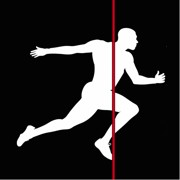
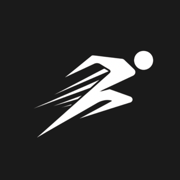
Update website images and components
- Replace old screenshots with new app images
- Update Hero, HowItWorks, and QuickSetups components
- Update favicons and app icons
- Fix SMS send-test route

Changed region(s): [[0.0, 0.0, 1.0, 1.0]]

diff --git a/src/components/HowItWorks.tsx b/src/components/HowItWorks.tsx
@@ -3,68 +3,82 @@ import Image from "next/image";
 export default function HowItWorks() {
   const steps = [
     {
-      number: "01",
-      title: "Position your iPhone",
-      description: "Place your phone at the finish line. No calibration needed—the app detects crossings automatically and uses linear interpolation to achieve millisecond accuracy.",
-      image: "/screenshot-setup.png",
+      number: "1",
+      title: "Connect phones",
+      description:
+        "Pair your iPhones together. They sync automatically over Wi-Fi.",
+      image: "/connect.png",
     },
     {
-      number: "02",
-      title: "Start the session",
-      description: "Choose your start method—countdown beeps, AI voice commands, touch release, or flying start. Multiple phones sync automatically for split timing.",
-      image: "/screenshot-templates.png",
+      number: "2",
+      title: "Start your session",
+      description:
+        "Choose your start method—countdown, voice commands, or flying start.",
+      image: "/tracksetup.png",
     },
     {
-      number: "03",
-      title: "Cross the line",
-      description: "Run your sprint. Get instant results with photo finish thumbnails to verify each crossing.",
-      image: "/screenshot-timing.png",
+      number: "3",
+      title: "Position your phone",
+      description:
+        "Place your phone at the finish line. No calibration needed.",
+      image: "/setup.png",
+    },
+    {
+      number: "4",
+      title: "Get your time",
+      description:
+        "Run your sprint and get instant results with millisecond accuracy.",
+      image: "/countdownstart.png",
     },
   ];
 
   return (
     <section id="how-it-works" className="section-padding px-6 bg-sky-wash">
       <div className="max-w-6xl mx-auto">
-        <div className="text-center mb-20">
-          <h2 className="text-section mb-4">
-            How it works
-          </h2>
+        <div className="text-center mb-16">
+          <h2 className="text-section mb-4">How it works</h2>
           <p className="text-body max-w-2xl mx-auto">
             Get started in under a minute
           </p>
         </div>
 
-        <div className="space-y-32">
+        <div className="grid grid-cols-2 md:grid-cols-4 gap-8">
           {steps.map((step, index) => (
-            <div
-              key={index}
-              className={`grid lg:grid-cols-2 gap-16 items-center ${
-                index % 2 === 1 ? "lg:flex-row-reverse" : ""
-              }`}
-            >
-              {/* Content */}
-              <div className={index % 2 === 1 ? "lg:order-2" : ""}>
-                <div className="flex items-center gap-4 mb-4">
-                  <span className="text-7xl font-bold" style={{ color: 'var(--border-light)' }}>{step.number}</span>
-                </div>
-                <h3 className="text-3xl font-bold mb-4" style={{ color: 'var(--text-primary)' }}>{step.title}</h3>
-                <p className="text-lg" style={{ color: 'var(--text-muted)' }}>{step.description}</p>
+            <div key={index} className="flex flex-col items-center text-center">
+              {/* Phone screenshot with built-in frame */}
+              <div className="w-[180px] mb-8">
+                <Image
+                  src={step.image}
+                  alt={step.title}
+                  width={368}
+                  height={750}
+                  className="w-full h-auto"
+                />
               </div>
 
-              {/* Screenshot */}
-              <div className={index % 2 === 1 ? "lg:order-1" : ""}>
-                <div className="iphone-mockup w-[260px] mx-auto">
-                  <div className="iphone-screen aspect-[9/19.5] overflow-hidden">
-                    <Image
-                      src={step.image}
-                      alt={step.title}
-                      width={260}
-                      height={563}
-                      className="w-full h-full object-cover"
-                    />
-                  </div>
-                </div>
-              </div>
+              {/* Step label */}
+              <span
+                className="text-sm font-semibold uppercase tracking-widest mb-2"
+                style={{ color: "var(--text-muted)" }}
+              >
+                Step {step.number}
+              </span>
+
+              {/* Title */}
+              <h3
+                className="text-xl font-bold mb-2"
+                style={{ color: "var(--text-primary)" }}
+              >
+                {step.title}
+              </h3>
+
+              {/* Description */}
+              <p
+                className="text-base max-w-[260px]"
+                style={{ color: "var(--text-muted)" }}
+              >
+                {step.description}
+              </p>
             </div>
           ))}
         </div>

diff --git a/src/components/QuickSetups.tsx b/src/components/QuickSetups.tsx
@@ -3,29 +3,17 @@ export default function QuickSetups() {
     {
       category: "Combine Tests",
       color: "#E85D4C",
-      tests: [
-        { name: "40 Yard Dash", distance: "36.58m", start: "Touch Release", popular: true },
-        { name: "Pro Agility", distance: "20 yards", start: "Touch Release", popular: false },
-      ],
+      tests: ["40 Yard Dash", "5-10-5"],
     },
     {
       category: "Acceleration",
       color: "var(--text-secondary)",
-      tests: [
-        { name: "10m Sprint", distance: "10m", start: "Voice Command", popular: true },
-        { name: "20m Sprint", distance: "20m", start: "Audio Gun", popular: false },
-        { name: "30m Sprint", distance: "30m", start: "Voice Command", popular: true },
-        { name: "60m Sprint", distance: "60m", start: "Audio Gun", popular: false },
-      ],
+      tests: ["10m", "20m", "30m", "60m"],
     },
     {
-      category: "Max Speed",
+      category: "Flying Sprints",
       color: "var(--accent-green)",
-      tests: [
-        { name: "Flying 10m", distance: "10m", start: "Flying", popular: true },
-        { name: "Flying 20m", distance: "20m", start: "Flying", popular: false },
-        { name: "Flying 30m", distance: "30m", start: "Flying", popular: true },
-      ],
+      tests: ["Flying 10m", "Flying 20m", "Flying 30m"],
     },
   ];
 
@@ -41,11 +29,11 @@ export default function QuickSetups() {
           </p>
         </div>
 
-        <div className="space-y-10">
+        <div className="grid sm:grid-cols-3 gap-8">
           {presets.map((category, catIndex) => (
-            <div key={catIndex}>
+            <div key={catIndex} className="card-feature">
               <h3
-                className="text-lg font-semibold mb-4 flex items-center gap-2"
+                className="text-lg font-semibold mb-3 flex items-center gap-2"
                 style={{ color: category.color }}
               >
                 <span
@@ -54,25 +42,9 @@ export default function QuickSetups() {
                 />
                 {category.category}
               </h3>
-              <div className="grid sm:grid-cols-2 lg:grid-cols-4 gap-4">
-                {category.tests.map((test, testIndex) => (
-                  <div
-                    key={testIndex}
-                    className="card-feature relative"
-                  >
-                    {test.popular && (
-                      <span className="label-new absolute -top-2 -right-2">
-                        Popular
-                      </span>
-                    )}
-                    <h4 className="text-lg font-semibold mb-2" style={{ color: 'var(--text-primary)' }}>{test.name}</h4>
-                    <div className="space-y-1 text-sm" style={{ color: 'var(--text-muted)' }}>
-                      <p>Distance: <span style={{ color: 'var(--text-primary)' }}>{test.distance}</span></p>
-                      <p>Start: <span style={{ color: 'var(--text-primary)' }}>{test.start}</span></p>
-                    </div>
-                  </div>
-                ))}
-              </div>
+              <p className="text-sm" style={{ color: 'var(--text-muted)' }}>
+                {category.tests.join(", ")}
+              </p>
             </div>
           ))}
         </div>

diff --git a/src/app/api/admin/sms/send-test/route.ts b/src/app/api/admin/sms/send-test/route.ts
@@ -6,15 +6,16 @@ const TWILIO_AUTH_TOKEN = process.env.TWILIO_AUTH_TOKEN;
 const TWILIO_PHONE_NUMBER = process.env.TWILIO_PHONE_NUMBER;
 
 // SMS templates (keep in sync with supabase/functions/_shared/sms-templates.ts)
+// Templates are written conversationally to encourage replies (handled by AI via sms-webhook)
 const smsTemplates: Record<string, (d: { name: string; sessionCount: number }) => string> = {
   welcome: () =>
-    "Welcome to TrackSpeed! 🏃 Start your first timing session today. Need help? Reply HELP. Reply STOP to opt out.",
+    "Hey! Thanks for trying TrackSpeed. Let me know if you need help getting started - just reply here. STOP to opt out",
   tips_day3: () =>
-    "TrackSpeed tip: Use 2 phones for split times! Place one at start, one at finish. 📱⏱",
+    "Quick tip - you can use 2 phones to time splits! One at start, one at finish. Have you tried it?",
   convert_day7: () =>
-    "Special offer: 20% off TrackSpeed Pro! Unlimited timing & multi-device mode. Tap to claim: https://mytrackspeed.com/pro",
+    "How's TrackSpeed working for you? If you want unlimited sessions or multi-phone timing, check out Pro: mytrackspeed.com/pro",
   winback: () =>
-    "We miss you at TrackSpeed! Come back & get 20% off Pro. Tap to claim: https://mytrackspeed.com/pro",
+    "Hey, noticed you haven't timed in a while. Everything okay? Let me know if you hit any issues.",
 };
 
 export async function POST(request: Request) {

diff --git a/src/components/Hero.tsx b/src/components/Hero.tsx
@@ -75,16 +75,14 @@ export default function Hero() {
 
           {/* Right - iPhone mockup */}
           <div className="flex justify-center lg:justify-end">
-            <div className="iphone-mockup w-[280px] md:w-[320px]">
-              <div className="iphone-screen aspect-[9/19.5] overflow-hidden">
-                <Image
-                  src="/screenshot-home.png"
-                  alt="TrackSpeed app home screen"
-                  width={320}
-                  height={693}
-                  className="w-full h-full object-cover"
-                />
-              </div>
+            <div className="w-[280px] md:w-[320px]">
+              <Image
+                src="/homescreen.png"
+                alt="TrackSpeed app home screen"
+                width={368}
+                height={750}
+                className="w-full h-auto"
+              />
             </div>
           </div>
         </div>
